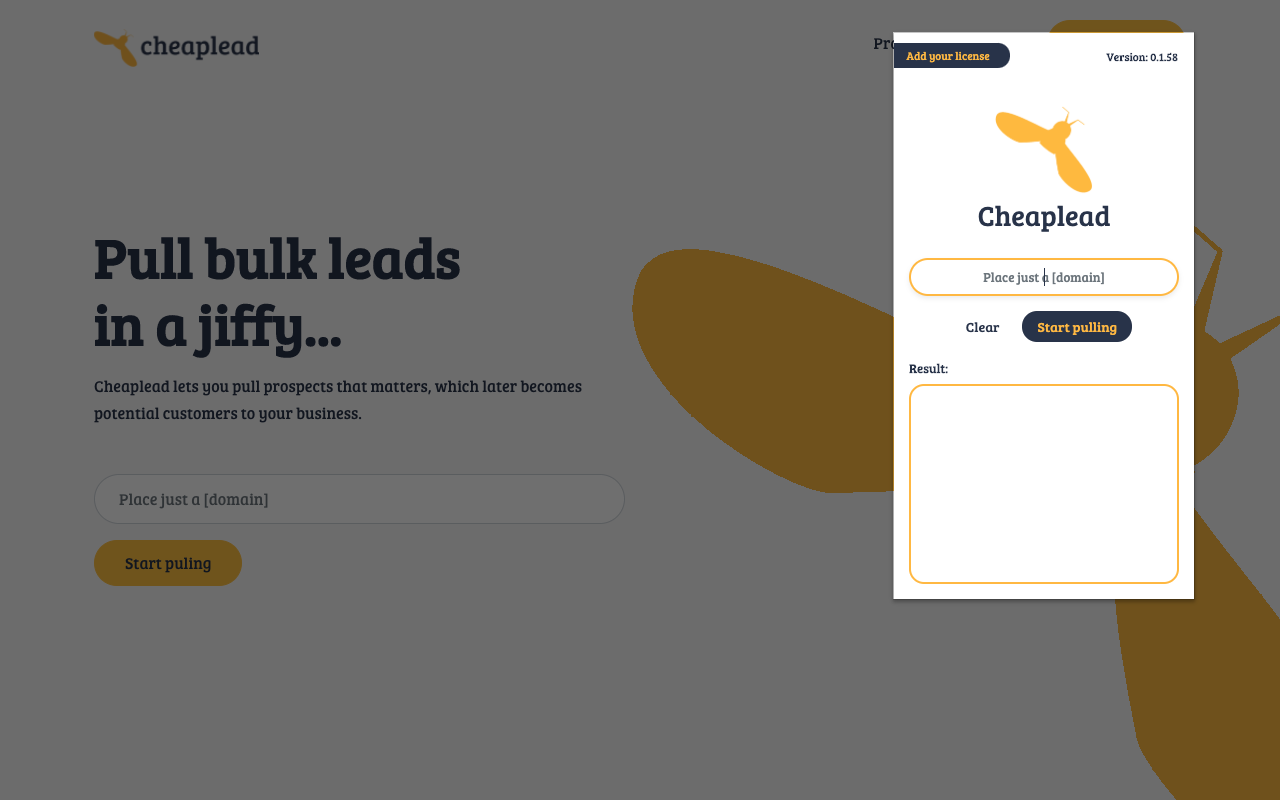
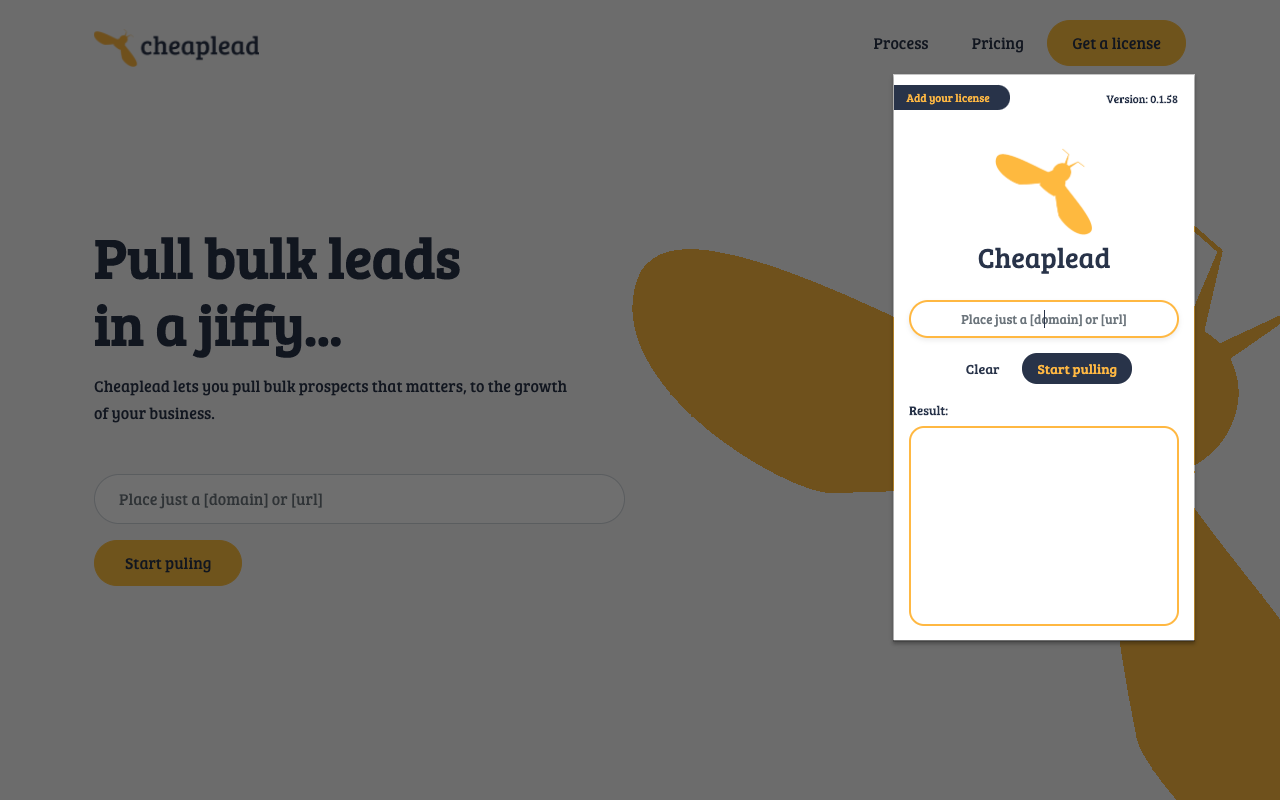
Modified the screenshots provided.

diff --git a/index.html b/index.html
@@ -194,7 +194,7 @@
                 <div>
                   <form action="#">
                     <div class="form-group">
-                      <input type="text" class="form-control p-4" placeholder="Place just a [domain]" required>
+                      <input type="text" class="form-control p-4" placeholder="Place just a [domain] or [url]" required>
                     </div>
                     <div>
                       <button class="btn btn-warning mr-2 mb-2">Start puling</button>
@@ -218,7 +218,7 @@
             </div>
             <div class="col-lg-5 pl-lg-5 ml-auto mt-md-5">
               <h2 class="text-black">Install the extension</h2>
-              <p class="mb-4">To get started, you have to install the chrome extension, then place a [domain]
+              <p class="mb-4">To get started, you have to install the chrome extension, then place a [domain] or [url]
                 and click &ldquo;start pulling&rdquo; button.</p>
               <div class="author-box">
                 <img src="images/shot1.png" style="max-width: 100%"
